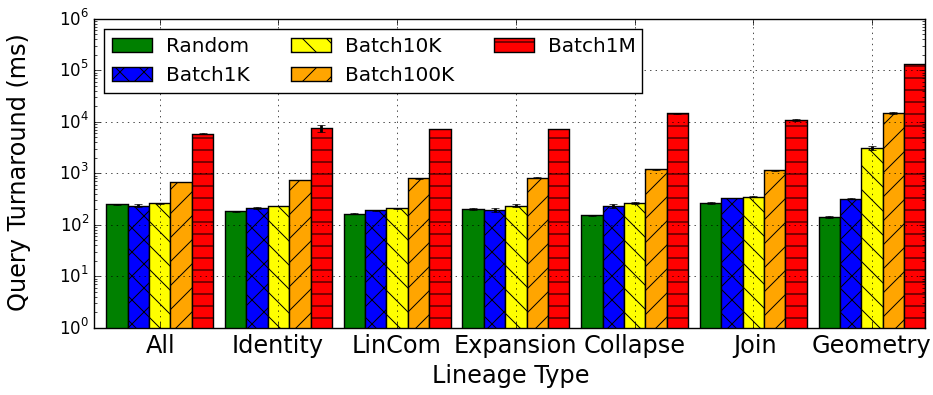
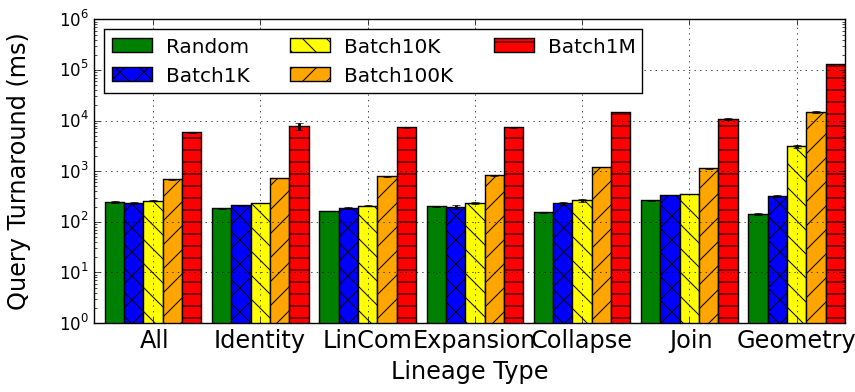
use consistant color scheme for figurs

diff --git a/Lineage.tex b/Lineage.tex
@@ -96,12 +96,12 @@
 We present the SystemX lineage system to enable the diagnosis of distributed machine learning (ML) pipelines by leveraging the fine-grained
 data lineage.  
 SystemX exposes a concise yet powerful API, derived from \emph{primitive lineage types}, and collects fine-grained data lineage for each 
-data transformation by recording the input datasets, the output datasets and the mapping between them, along
+data transformation by recording the input datasets, the output datasets and the cell-level mapping between them, along
 with all information needed to reproduce the computation.
 SystemX efficiently enables data anomaly removal and computation replay, code debugging, and result analysis.
 For a single transformation, SystemX's high-order function mapping strategy can reduce the storage consumption by up to 
 45x comparing to the element-wise mapping recording.
-The spatial index allows SystemX to speed up query performance by a further 2x-31x. 
+The spatial index allows SystemX to speed up lineage query performance by a further 2x-31x. 
 The performance penalty introduced by SystemX is 16\%-54\% depending on the pipeline and use case.
 \end{abstract}
 
@@ -149,8 +149,9 @@ solutions for MapReduce systems, and capture lineage on low level operators such
 SubZero~\cite{wu13}, which is built on SciDB~\cite{brown10} has a similar lineage capturing interface at operators and UDFs.
 
 Unfortunately, none of the existing lineage tracking systems is suitable for the distributed ML frameworks for three reasons.
-First, the lineage information collected by scientific workflow systems (e.g., Chimera) lacks the details for cell-level lineage tracing and query.
-Second, the weak inversion and verification methods relax lineage accuracy thus can not provide accurate lineage information for ML pipeline diagnosis.
+First, the coarse-grained lineage information collected by scientific workflow systems (e.g., Chimera) lacks the details for cell-level lineage tracing and query.
+Second, the approximate fine-grained approaches, such as weak inversion and verification methods, 
+relax lineage accuracy thus can not provide accurate lineage information for ML pipeline diagnosis.
 Third, the lineage capturing interface of Trio, RAMP, Newt, and SubZero is designed by at
 the underlying system operators (e.g., SQL operators for RDMBS, aggregate-select-project-join operators in data warehouse, 
 mappers and reducers in MapReduce systems, and the pre-defined operators and UDFs in SciDB). 
@@ -170,7 +171,7 @@ This interface covers 87\% (39 out of 45) of the data transformations in the cur
 For transformations that are not covered, the lineage capturing interface allows users to specify a customized mapping function.
 A formal definition of the mapping types is in \S\ref{sec:Design-Mapping}.
 
-\begin{figure}[h]
+\begin{figure}[t]
 \begin{center}
     \includegraphics[width=85mm]{pictures/Conceptual}
     \caption {A synthetic image classification pipeline with elements mapping highlighted in color scheme. 
@@ -207,7 +208,7 @@ Users have the flexibility to reconstruct a single transformer lineage, a partia
 SystemX enables lineage-based ML pipeline diagnostics such as code validation, results inspection, and data cleaning.
 A detailed discussion of these three use cases is presented in \S\ref{sec:Back-cases}.
 Versus a time-efficient but space-inefficient strategy of materializing cel-wise mapping, 
-SystemX's techniques (spatial index + high-order function geometry) enable 2x-31x speedups at lineage query time.
+SystemX's techniques (spatial index and high-order function) enable 2x-31x speedups at lineage query time.
 While this new capability comes at the cost of performance overhead during pipeline training/execution.
 The overhead is measured in wall clock time increase, memory consumption, and storage space.
 For the three use cases, the wall clock time overhead is 16\%-54\%, which is comparable to other distributed lineage systems
@@ -240,7 +241,7 @@ These users are constantly engineering new features, adding new datasources, and
 Lineage offers a natural way for these users to hone in on the areas where two similar pipelines diverge in terms of their intermediate data, and presents a new avenue for investigation of model performance by allowing users to pinpoint the point at which their data diverged from a known good pipeline and to inspect \emph{what} changed during the data processing procedure. 
 
 
-\begin{figure}[ht]
+\begin{figure}[t]
 \begin{center}
     \includegraphics[width=85mm]{pictures/VOCSIFTFisher}
     \caption {The SIFTFisher pipeline, boxes are dataset, rounded-corner boxes are transformers, dashed rounded-corner boxes are estimators.
@@ -260,7 +261,7 @@ By visualizing the features we could see that the new features added to our mode
 Users of ML pipelines often interpret the results, identify some potential data anomalies, then retrospect the supporting input data for better understanding.
 Fine-grained data lineage of ML pipelines have sufficient information for such investigation.
 
-\begin{figure}[h]
+\begin{figure}[t]
 \begin{center}
     \includegraphics[width=85mm]{pictures/SourceExtractor}
     \caption {The SourceExtractor pipeline, boxes are dataset, rounded-corner boxes are transformers, dashed rounded-corner boxes are estimators.
@@ -269,7 +270,7 @@ Fine-grained data lineage of ML pipelines have sufficient information for such i
 \end{center}
 \end{figure}
 
-One such use case is results validation in the SourceExtractor pipeline, shown in Figure~\ref{fig:sourceextractor},
+One such use case is results inspection in the SourceExtractor pipeline, shown in Figure~\ref{fig:sourceextractor},
 that processes images from the telescopes and produces astronomical object catalogs. 
 The astronomical object catalog includes the position, shape, and other statistical properties of the object.
 In this case, astronomers find the bright objects over a threshold and validate that these objects are indeed astronomical objects rather
@@ -277,6 +278,7 @@ than noise caused by cosmic rays.
 With the lineage information, astronomers can first filter the results to find the objects whose brightness is above a threshold.
 Then using backward query, they can find corresponding pixels for these bright objects. 
 Either through mathematical analysis or human intervention, they are able to validate the correctness of the bright objects.
+Then the astronomer can use forward query to figure how this bad pixel propagates to the results in the catalogs.
 
 \subsubsection{Data Cleaning}
 \label{sec:Back-Case-Cleaning}
@@ -295,7 +297,25 @@ preparation part (from PixelScaler to RowNormalizer), then feed the dataset to l
 
 
 \subsection{KeystoneML}
+In principle, SystemX is general for distributed ML frameworks whose programming interface can be abstracted as transformers and estimators.
+We integrate SystemX with KeystoneML to show the effectiveness of the design.
 KeystoneML is an application framework designed for the implementation of robust large-scale machine learning pipelines. Built on the principles of declarative programming and modular design, KeystoneML provides a light-weight and elegant API that allows users to describe these pipelines as the composition of two types of operator--transformers, which perform deterministic data transformation, and estimators, which ``learn'' transformers based on training data. KeystoneML pipelines are fit and executed in parallel using Apache Spark. These pipelines are compiled into an application DAG and optimized before execution. Current optimizations include online decisions about materialization of intermediate state, as well as standard optimizations such as common subexpression elimination. KeystoneML includes a library of standard feature extractors in domains including computer vision, audio, and text processing, as well as standard statistical procedures and Estimators for several types of machine learning model.
+
+\section{Functional Requirements}
+\label{sec:functional}
+Two basic functions of SystemX is lineage capturing and serving.
+SystemX requires a programming interface between the users of KeystoneML and the lineage capturing unit to 
+collect lineage information and customize instrumentation (deciding what dataset to store). 
+This interface should be concise with a few variations and options.
+This interface should also be powerful in terms of coverage of transformers.
+This interface should be flexible so that users can define their own lineage and instrumentation.
+
+To serve lineage for query, SystemX requires a user interface to reconstruct and chain collected lineage.
+Each transformer should provide the forward query (qForward()) and backward query (qBackward()) functionality.
+SystemX needs to verify the chained lineage has identical ordering to the pipeline.
+The single transformer lineage should be able to be replayed deterministically, meaning that with the same input dataset and transformer,
+the lineage contains enough information with which users can reproduce the results.
+In turn, a partial pipeline assembled by a sequence of transformers of the original pipeline should be able to be replayed deterministically.
 
 \section{Formal Discussion}
 \label{sec:Mapping}
@@ -362,7 +382,7 @@ It is a left outer join since an input element may not be corresponding to any o
 SELECT *
 From input
 LEFT OUTER JOIN output 
-    ON Fun(in.meta) $\ni$ out.meta;
+    ON Func(in.meta) $\ni$ out.meta;
 \end{lstlisting}
 
 In practice, we separate the metadata from the actual element values and only record metadata mapping.
@@ -391,6 +411,37 @@ The input and output mapping of a pipeline is in turn a sequence of mappings of 
 Consider a pipeline $P=(T_1, T_2, ..., T_n)$, we denote $mapping_i$ as the mapping for transformer $T_i$.
 The mapping of the pipeline is a sequence of left outer join operations of $\{mapping_1, ..., mapping_n\}$ on 
 $mapping_i.out\_meta = mapping_{i+1}.in\_meta$.
+
+\subsection{Mapping Function}
+\label{sec:Map-Func}
+The mapping function {\bf Func} contains the core information of the input and output element dependency.
+Recording the element-wise dependency can take up to $O(kN^2)$ space given k N-dimensional vectors in the case
+of every output element depends on every input element. 
+To eliminate this polynomial explosion in space requirements, we identify seven primitive mapping functions.
+From higher dimension space to lower dimension space, the mapping can be {\bf collapse} or {\bf expansion}.
+Between the equal dimension spaces, the mapping can be {\bf identity}, {\bf all}, {\bf geometry}, {\bf lincom}, and {\bf join}.
+Figure~\ref{fig:narrowmapping} shows the seven primitive mapping functions, with the mapping highlighted with color scheme.
+
+\begin{figure}[t]
+\begin{center}
+    \includegraphics[width=85mm]{pictures/narrowmapping}
+\caption {Seven primitive mapping functions.
+    \label{fig:narrowmapping}
+}
+\end{center}
+\end{figure}
+
+{\bf Collapse} mapping describes the mapping of a space collapsing into a one dimension lower space along one dimension which needs
+to be specified by the user. Examples include gray scaling a multiple channel image.
+{\bf Expansion} mapping is where a space expands to a one dimension lower space, e.g. expanding a matrix to a vector with column major.
+In {\bf Identity} mapping, each output element only depends on one element with the same coordinate in the input matrix.
+In {\bf All} mapping, each output element depends on all elements in the input matrix.
+{\bf Geometry} mapping describes the case where a group of output elements depend on a group of input elements.
+{\bf LinCom} mapping describes the data dependencies in a linear model.
+{\bf Join} mapping happens between equal dimension space transformation. The example in Figure~\ref{fig:narrowmapping} 
+is a transformation from a sequence of a vector collection (RDD) to a collection (RDD) of vector sequence by joining the vectors
+on the collection (RDD) position.
+For the mappings that are not covered by the primitive functions, we allow users to define their own mapping functions.
 
 \subsection{Mapping Query}
 A forward query with a key  ({\it qForward(key)}) over the mapping of a transformer or a pipeline can be expressed as:
@@ -424,13 +475,13 @@ With single or few transformers, users are able to track the distributive proper
 However when the pipeline is deep, such property is hard to track.
 
 Using the fine-grained data lineage, we present a validation method for the distributive property.
-We say the mapping of {\it f()} is self-reflected if $qBackward_f(qForward_f(v_i)) \subseteq v_i$, where vector $v_i$ can be viewed 
+We say the mapping of {\it f()} is self-contained if $qBackward_f(qForward_f(v_i)) \subseteq v_i$, where vector $v_i$ can be viewed 
 as a set of one-dimensional elements.
 
 
 \begin{theorem}
 \label{thm:distributive}
-A data transformation f() is distributive if the mapping of f() is self-reflected.
+A data transformation f() is distributive if the mapping of f() is self-contained.
 \end{theorem}
 
 \begin{proof}
@@ -439,39 +490,9 @@ Then $e \in qBackward_f(qForward_f(v_i))$ and $e \in v_i$ which results in  $qBa
 \end{proof}
 
 \begin{corollary}
-A sequence of data transformations ($s = {f_1, f_2, ..., f_n}$) is distributive if the mapping between the very input and output datasets is self-reflected.
+A sequence of data transformations ($s = {f_1, f_2, ..., f_n}$) is distributive if the mapping between the very input and output datasets is self-contained.
 \end{corollary}
 
-\subsection{Mapping Function}
-\label{sec:Map-Func}
-The mapping function {\bf Func} contains the core information of the input and output element dependency.
-Recording the element-wise dependency can take up to $O(kN^2)$ space given k N-dimensional vectors in the case
-of every output element depends on every input element. 
-To eliminate this polynomial explosion in space requirements, we identify seven primitive mapping functions.
-From higher dimension space to lower dimension space, the mapping can be {\bf collapse} or {\bf expansion}.
-Between the equal dimension spaces, the mapping can be {\bf identity}, {\bf all}, {\bf geometry}, {\bf lincom}, and {\bf join}.
-Figure~\ref{fig:narrowmapping} shows the seven primitive mapping functions, with the mapping highlighted with color scheme.
-
-\begin{figure}[h]
-\begin{center}
-    \includegraphics[width=85mm]{pictures/narrowmapping}
-\caption {Seven primitive mapping functions.
-    \label{fig:narrowmapping}
-}
-\end{center}
-\end{figure}
-
-
-{\bf Collapse} mapping describes the mapping of a space collapsing into a one dimension lower space along one dimension which needs
-to be specified by the user. Examples include gray scaling a multiple channel image.
-{\bf Expansion} mapping is where a space expands to a one dimension lower space, e.g. expanding a matrix to a vector with column major.
-In {\bf Identity} mapping, each output element only depends on one element with the same coordinate in the input matrix.
-In {\bf All} mapping, each output element depends on all elements in the input matrix.
-{\bf Geometry} mapping describes the case where a group of output elements depend on a group of input elements.
-{\bf LinCom} mapping describes the data dependencies in a linear model.
-{\bf Join} mapping happens between equal dimension space transformation, where nested collection of data structure is reorganized by 
-transposing two dimensions
-For the mappings that are not covered by the primitive functions, we allow users to define their own mapping functions.
 
 %Since transformers operate at the data structure (vector, matrix, image) level, we use the notation
 %$\overline{I_i(e)}$ as the companion of $I_i$ with respect to element $e$ such that $\forall a \in \overline{I_i(e)}$,
@@ -535,30 +556,13 @@ For the mappings that are not covered by the primitive functions, we allow users
 
 \section{Design Goals}
 \label{sec:Req}
-In this section, we present the design goals of SystemX from the functional and performance perspective.
+In this section, we present the design goals of SystemX from the performance perspective.
 
-\subsection{Functional Requirements}
-Two basic functions of SystemX is lineage capturing and serving.
-SystemX requires a programming interface between the users of KeystoneML and the lineage capturing unit to 
-collect lineage information and customize instrumentation (deciding what dataset to store). 
-This interface should be concise with a few variations and options.
-This interface should also be powerful in terms of coverage of transformers.
-This interface should be flexible so that users can define their own lineage and instrumentation.
-
-To serve lineage for query, SystemX requires a user interface to reconstruct and chain collected lineage.
-Each transformer should provide the forward query (qForward()) and backward query (qBackward()) functionality.
-SystemX needs to verify the chained lineage has identical ordering to the pipeline.
-The single transformer lineage should be able to be replayed deterministically, meaning that with the same input dataset and transformer,
-the lineage contains enough information with which users can reproduce the results.
-In turn, a partial pipeline assembled by a sequence of transformers of the original pipeline should be able to be replayed deterministically.
-
-\subsection{Performance Requirements}
-\label{sec:Req-Perf}
 In general, as lineage capturing incurs additional computation and I/O for mapping materialization and storage, a non-trivial performance
 penalty based on the original workload is expected. 
 Table~\ref{tb:overhead} summarizes reported performance penalty introduced by lineage capturing in existing systems and SystemX. 
 
-\begin{table}[ht]
+\begin{table}[t]
 \begin{center}
     \caption{Performance Penalty Reported by Existing Lineage Systems and SystemX}
     \begin{scriptsize}
@@ -629,7 +633,7 @@ All the type specific class inherits an abstract class of Lineage, which define 
 
 
 Table~\ref{tb:lineage-interface} summarizes the lineage types and parameters passing by the users.
-\begin{table}[ht]
+\begin{table}[t]
 \begin{center}
     \caption{Primitive Lineage Types}
     \begin{scriptsize}
@@ -782,7 +786,7 @@ The backward query works in a similar way by reverting the the geometry tuple.
 
 
 We use the example in Figure~\ref{fig:example} in the following discussion.
-\begin{figure}[h]
+\begin{figure}[t]
 \begin{center}
     \includegraphics[width=85mm]{pictures/example}
 \caption {A geometry mapping example, the left matrix is input and the right matrix is output. The mapping between the geometries are shown using gray shades.
@@ -792,7 +796,7 @@ We use the example in Figure~\ref{fig:example} in the following discussion.
 \end{figure}
 
 Table~\ref{tb:example} shows the mapping for each element and the regressed 2D geometry mapping.
-\begin{table}[ht]
+\begin{table}[t]
 \begin{center}
     \caption{Element-wise mapping and regressed geometry mapping of the example in Figure~\ref{fig:example}}
     \begin{scriptsize}
@@ -885,7 +889,7 @@ The space complexity of {\bf KMeans} is $O(\sqrt{N})$.
 Table~\ref{tb:index-comparison} summarizes the index building time complexity, 
 the query time complexity, and the index space complexity.
 
-\begin{table}[ht]
+\begin{table}[t]
 \begin{center}
     \caption{Index Strategy Comparison}
     \begin{scriptsize}
@@ -908,7 +912,7 @@ In reality, we see that the performance of {\bf RTree} an {\bf KMeans} are signi
 number of boxes in each non-leaf node for {\bf RTree} and the number of iterations for {\bf KMeans}.
 A detailed performance study is present in \S\ref{sec:Perf-Index}.
 
-%\begin{table}[ht]
+%\begin{table}[t]
 %\begin{center}
 %    \caption{Index Strategy Profile on Single SIFTExtracror}
 %    \begin{scriptsize}
@@ -948,7 +952,7 @@ in 2D space. The total number of mappings has 300 million geometries. The experi
 Figure~\ref{fig:sift-time} presents the end-to-end performance of this workload with a detailed runtime decomposition. For each data point, 
 we run it three times and present the average. 
 
-\begin{figure}[h]
+\begin{figure}[t]
 \begin{center}
     \includegraphics[width=85mm]{pictures/SIFTIndex-Time}
 \caption {Runtime profile of the indexing strategies for geometry mapping over 300 million geometry mappings.
@@ -969,7 +973,7 @@ The other three strategies show a similar scalability, while KMeans-1 runs 17.9\
 KMeans-5 runs  31.1\% and 35.2\% faster with batch size of 1000 and 10000, respectively.
 
 
-\begin{figure}[h]
+\begin{figure}[t]
 \begin{center}
     \includegraphics[width=85mm]{pictures/SIFTQuery-Time}
 \caption {Query performance profile of the geometry mapping with four indexing strategies
@@ -1006,7 +1010,7 @@ The memory usage overhead comparing to the baseline case is 200\% for MNIST pipe
 193~GB out of 3.9~TB memory space. 
 For more memory-intensive pipelines of SIFTFisher (1.3~TB) and SourceExtractor (1.6~TB), the additional usage is 38.5\% and 43.7\%, respectively.
 
-\begin{table}[ht]
+\begin{table}[t]
 \begin{center}
     \caption{Overhead Profile of SystemX on the SIFTFisher, SourceExtractor, and MNIST Pipelines}
     \begin{scriptsize}
@@ -1031,7 +1035,7 @@ and lineage with both metadata mapping and datasets.
 Then we decompose the running time for NoLineage, Meta, and Data, and show the relative scalability
  to the performance of 8 machines, shown as Figure~\ref{fig:scalability}.
 
-\begin{figure}[h]
+\begin{figure}[t]
 \begin{center}
     \includegraphics[width=85mm]{pictures/Scalability}
 \caption {Relative Speedup of the VOCSIFTFisher, Source Extractor, and MNIST Pipelines with SystemX over Eight Nodes.
@@ -1063,7 +1067,7 @@ and present the performance in Figure~\ref{fig:typequery}. For each lineage type
 input and output data structures (vector, matrix, image) and distribute them into 200 partitions over 16 machines.
 Table~\ref{tb:typequery-stats} shows the metadata settings of the input and output data structure in each query
 
-\begin{figure}[h]
+\begin{figure}[t]
 \begin{center}
     \includegraphics[width=85mm]{pictures/TypeQuery-Time}
 \caption {Query time for the seven lineage types (in log scale).
@@ -1072,7 +1076,7 @@ Table~\ref{tb:typequery-stats} shows the metadata settings of the input and outp
 \end{center}
 \end{figure}
 
-\begin{table}[ht]
+\begin{table}[t]
 \begin{center}
     \caption{Data Structure Settings}
     \begin{scriptsize}
@@ -1147,15 +1151,18 @@ Fine-grained lineage has been investigated in the context of data visualization~
 data warehouse~\cite{cui00, cui03}, RDBMS~\cite{widom04}, and user-curated database~\cite{buneman06}.
 Recent works of RAMP~\cite{ikeda11, park11} and Newt~\cite{logothetis13} collects fine-grained lineage for the MapReduce
 systems. SubZero~\cite{wu13} proposes a prototype lineage system for array-based database system SciDB~\cite{brown10}.
-All these systems employ a bottom-up approach to design lineage capturing interface as the underlying systems all have well regulated low level operators.
+All these systems design lineage capturing interface on the well-regulated low level operators.
 For example, the data warehouse has the aggregate, select, project, join operators. 
 RDMBS has its SQL operators. MapReduce systems formulates the computation as mappers and reducers.
 The curated database defines four operators of insert, delete, copy and paste.
-One of SubZero's contributions is the region lineage that collects fine-grained lineage for UDFs besides the built-in operators in SciDB. 
+Though lineage capturing interface designed in these systems is general to support all applications running on top these systems,
+it exposes very limited flexibility of lineage type declaration and instrumentation to users.
 In contrast, an ML pipeline can be viewed as a chain of user-defined data transformations, and the users often have the knowledge 
 of lineage types and data of interest since they are the designers of the pipeline. 
-Though lineage capturing interface designed with the bottom-up approach is general to support applications running on top these systems,
-it exposes very limited flexibility of lineage type declaration and instrumentation to users.
+
+One of SubZero's contributions is the region lineage that collects fine-grained lineage for UDFs besides the built-in operators in SciDB. 
+However, region lineage is not sufficient for ML pipelines because it only captures many to one relationships between input and output cells, 
+while SystemX can support many to many relationships as well.
 
 Researchers also have tried to collect fine-grained lineage with other approaches.
 Weak inversion and verification methods~\cite{woodruff97} are proposed to support approximate lineage collection.

diff --git a/pictures/SIFTQuery-Time.py b/pictures/SIFTQuery-Time.py
@@ -29,14 +29,14 @@ ax.xaxis.tick_top()
 ax.tick_params(labeltop='off')
 ax2.xaxis.tick_bottom()
 
-rects1 = ax.bar(ind, Random, width, color='blue')
-rects2 = ax.bar(ind+width, Batch100, width, color='orange', hatch="/")
-rects3 = ax.bar(ind+2*width, Batch1K, width, color='red', hatch="x")
-rects4 = ax.bar(ind+3*width, Batch10K, width, color='green', hatch="\\")
-ax2.bar(ind, Random, width, color='blue')
-ax2.bar(ind+width, Batch100, width, color='orange', hatch="/")
-ax2.bar(ind+2*width, Batch1K, width, color='red', hatch="x")
-ax2.bar(ind+3*width, Batch10K, width, color='green', hatch="\\")
+rects1 = ax.bar(ind, Random, width, color='green')
+rects2 = ax.bar(ind+width, Batch100, width, color='blue', hatch="/")
+rects3 = ax.bar(ind+2*width, Batch1K, width, color='orange', hatch="x")
+rects4 = ax.bar(ind+3*width, Batch10K, width, color='red', hatch="\\")
+ax2.bar(ind, Random, width, color='green')
+ax2.bar(ind+width, Batch100, width, color='blue', hatch="/")
+ax2.bar(ind+2*width, Batch1K, width, color='orange', hatch="x")
+ax2.bar(ind+3*width, Batch10K, width, color='red', hatch="\\")
 ax.grid(True)
 ax2.grid(True)
 
